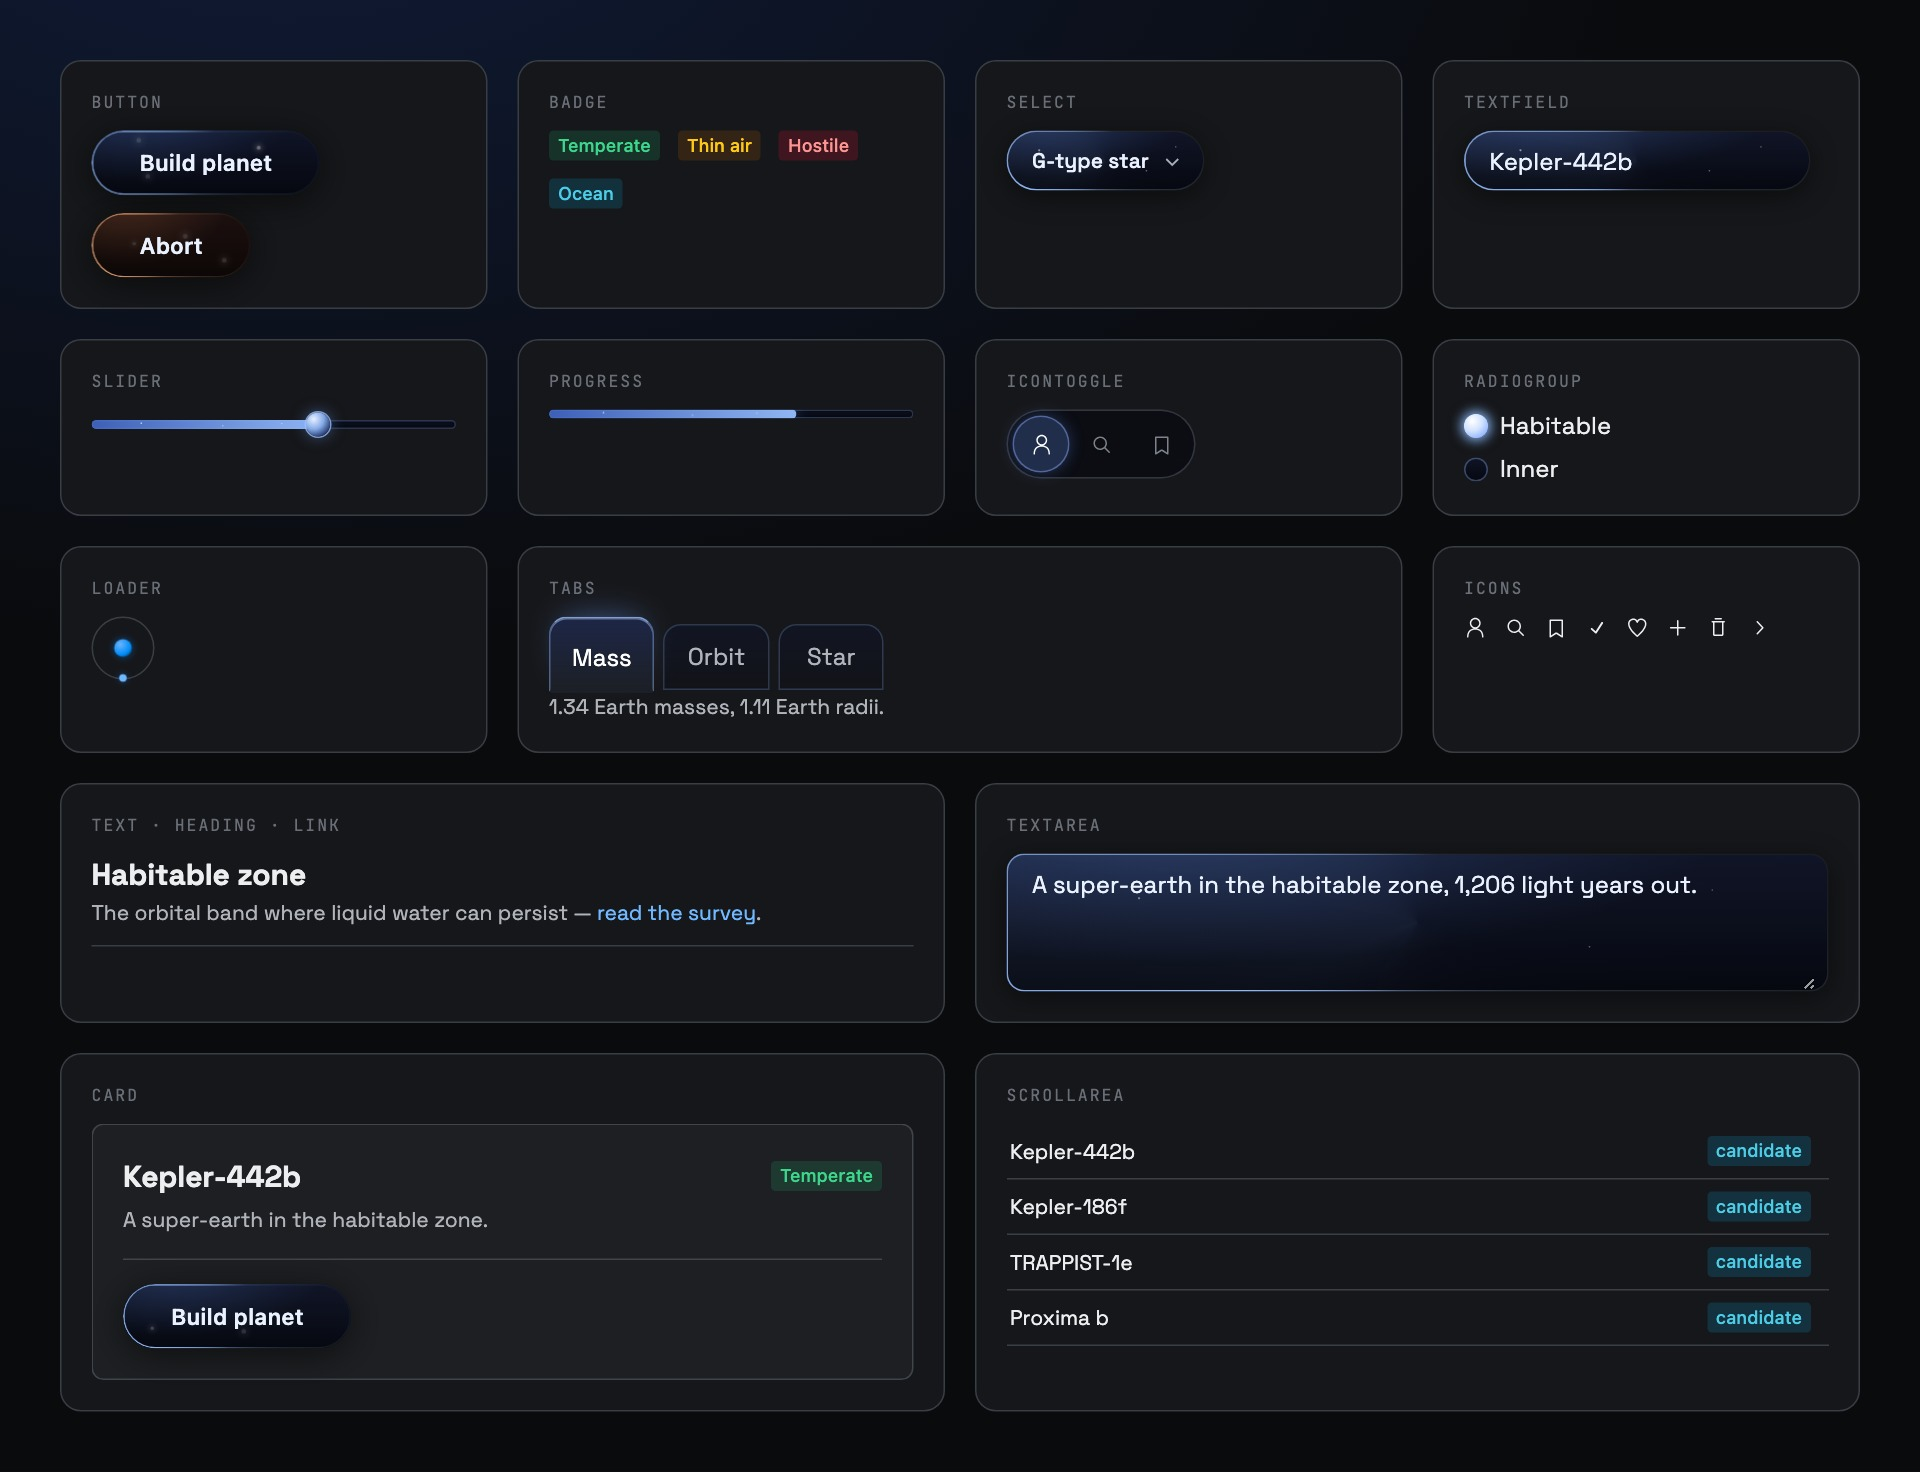
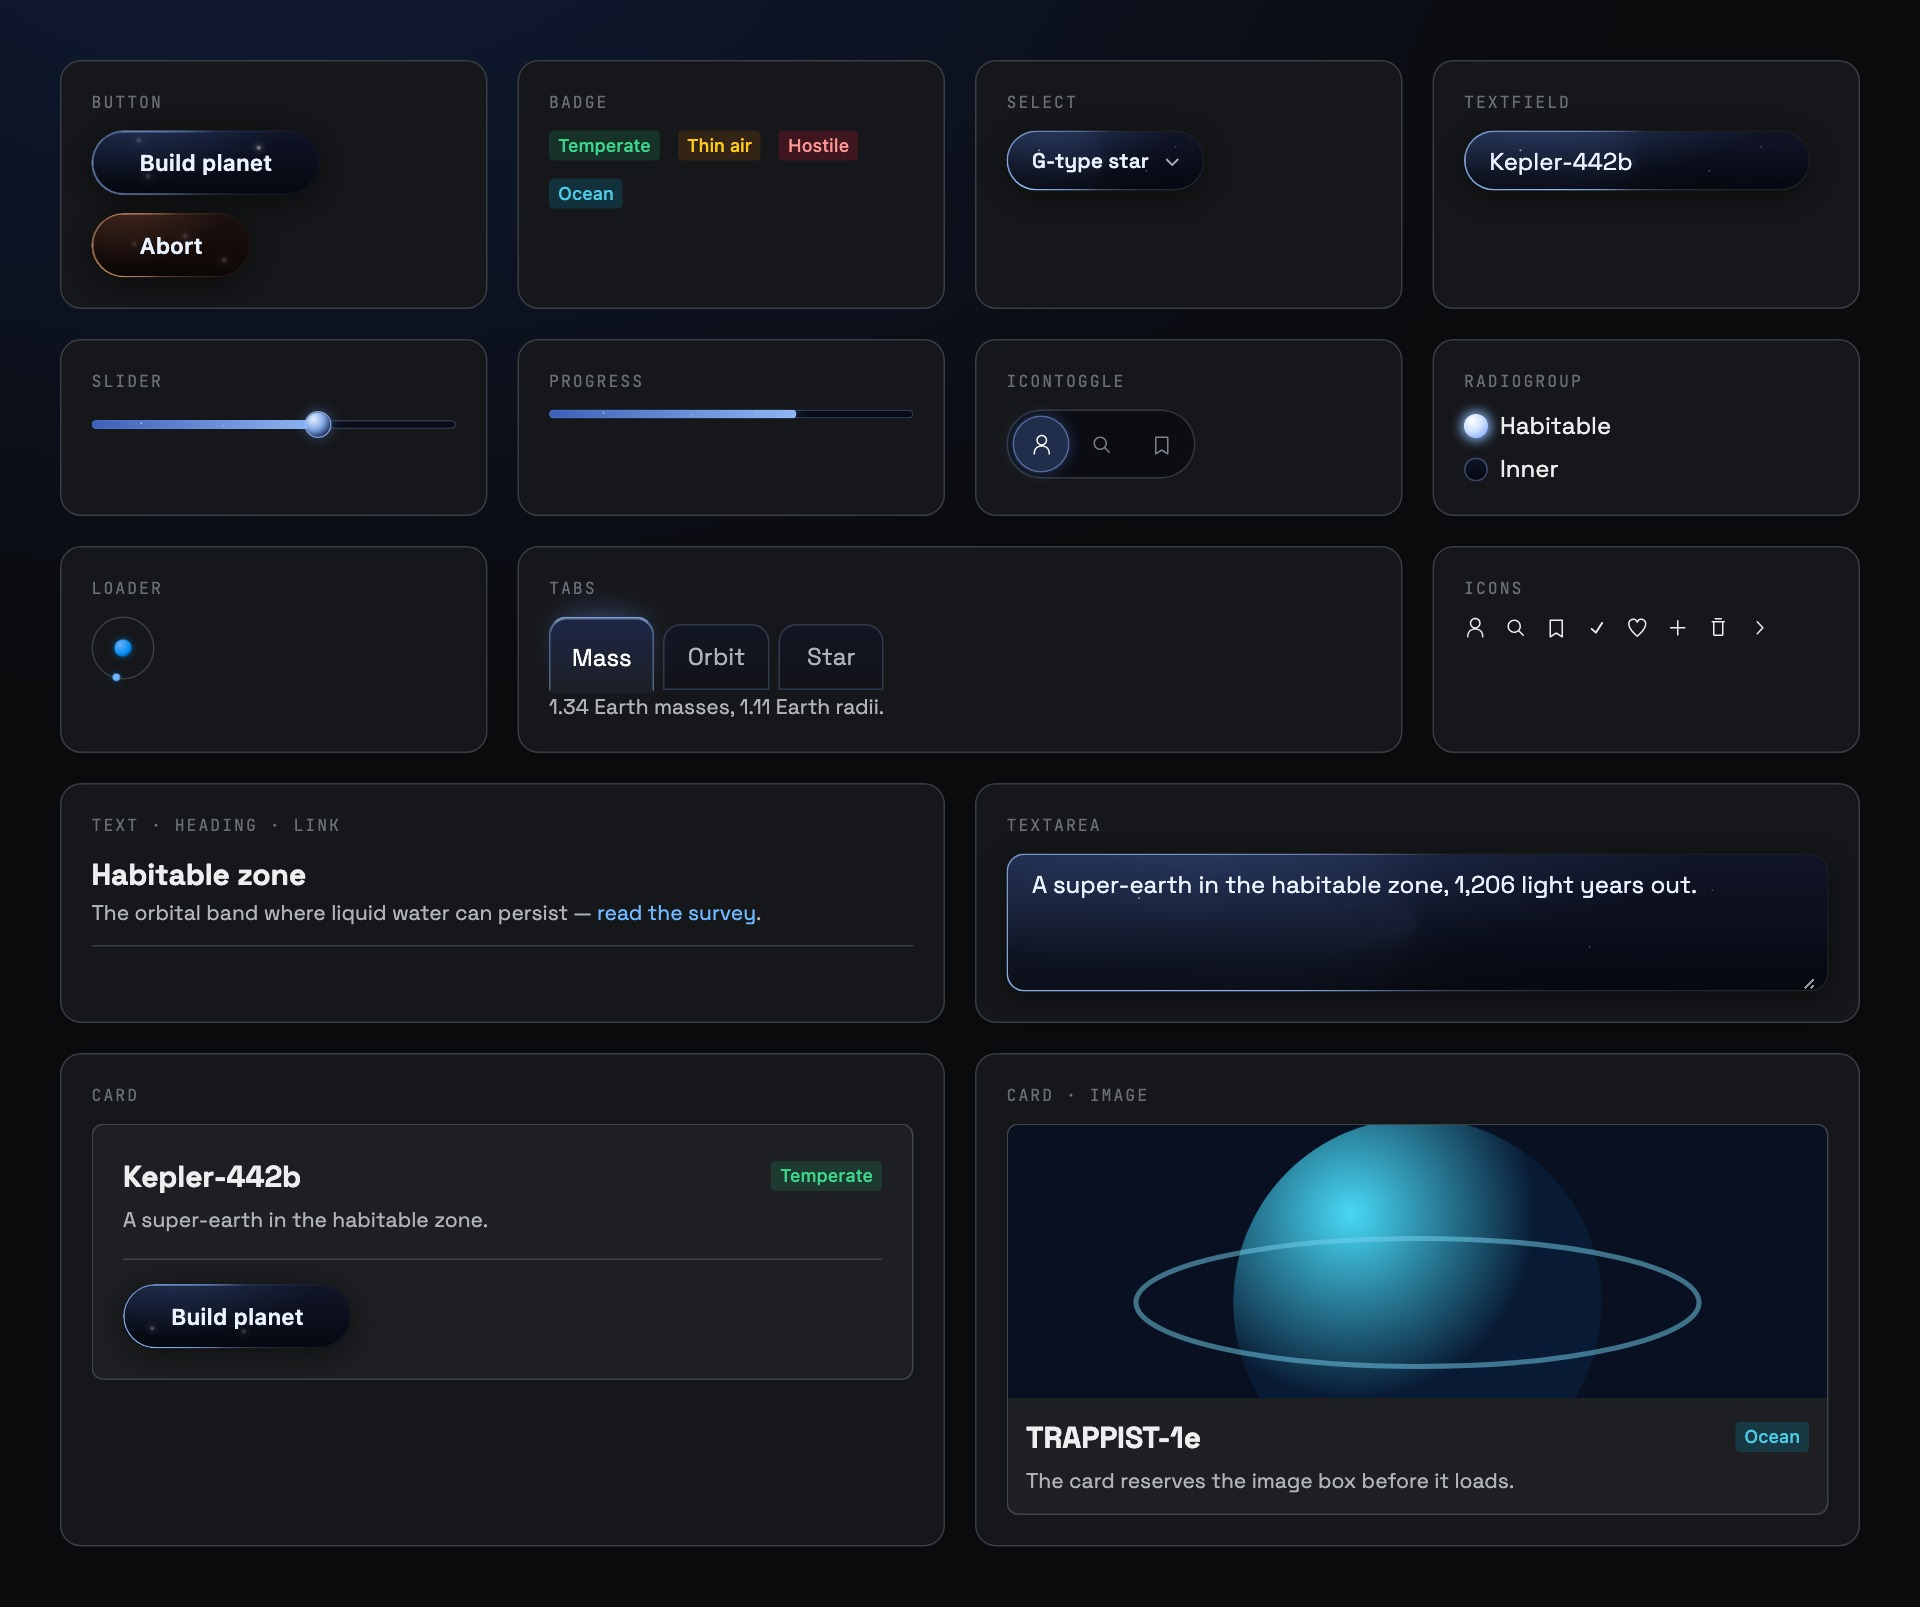
Remove ScrollArea
It was a div with overflow-y: auto and themed scrollbars — nine statements and
thirteen lines of CSS — and it did not solve the part that is actually hard.
Its own doc-comment conceded it: the component needed a bounded height from
somewhere else, so every call site still supplied the flex: 1; min-height: 0
that makes a region scroll at all. It took the easy half and left the trap to
the caller. It also hardcoded overflow-x: hidden with no way out, silently
clipping anything wider than the container.

The scrollbar theming does not come with it. That was a rule wearing a
component, and applying it globally to a consuming app's every scrollable
region would be a worse trade than leaving it out.

The stickersheet loses its ScrollArea cell, so the last row is now the plain
Card beside a media card — which the sheet should have been showing since the
image slot landed anyway.

diff --git a/apps/docs/src/stickersheet.stories.tsx b/apps/docs/src/stickersheet.stories.tsx
@@ -12,7 +12,6 @@ import {
   Loader,
   Progress,
   RadioGroup,
-  ScrollArea,
   Select,
   Separator,
   Slider,
@@ -160,22 +159,39 @@ export const Stickersheet = () => {
           </Card>
         </Cell>
 
-        <Cell label="ScrollArea" wide fill>
-          <ScrollArea style={{ maxHeight: 148 }}>
-            {["Kepler-442b", "Kepler-186f", "TRAPPIST-1e", "Proxima b", "Gliese 667 Cc", "TOI-700 d"].map(
-              (name) => (
-                <div key={name} className="docs-sheet__row">
-                  <Text size="2">{name}</Text>
-                  <Badge color="cyan">candidate</Badge>
-                </div>
-              ),
-            )}
-          </ScrollArea>
+        <Cell label="Card · image" wide>
+          <Card image={<SheetThumb />} className="docs-sheet__mediacard">
+            <div className="docs-demo__head">
+              <Heading size="5">TRAPPIST-1e</Heading>
+              <Badge color="cyan">Ocean</Badge>
+            </div>
+            <Text size="2" color="muted">
+              The card reserves the image box before it loads.
+            </Text>
+          </Card>
         </Cell>
+
       </div>
     </div>
   );
 };
+
+/** Stands in for a photograph. slice, not the default meet: an inline SVG
+ *  letterboxes where a raster image would crop. */
+const SheetThumb = () => (
+  <svg viewBox="0 0 320 200" preserveAspectRatio="xMidYMid slice" aria-hidden="true">
+    <defs>
+      <radialGradient id="sheetThumb" cx="32%" cy="26%">
+        <stop offset="0%" stopColor="hsl(190 90% 62%)" />
+        <stop offset="100%" stopColor="hsl(215 70% 12%)" />
+      </radialGradient>
+    </defs>
+    <rect width="320" height="200" fill="hsl(220 60% 8%)" />
+    <circle cx="160" cy="116" r="72" fill="url(#sheetThumb)" />
+    <ellipse cx="160" cy="116" rx="110" ry="25" fill="none"
+             stroke="hsl(195 80% 70% / 0.5)" strokeWidth="2" />
+  </svg>
+);
 
 /** One labelled swatch. The label is the export name, so the sheet doubles as
  *  an index: see a component, know what to import. */

diff --git a/apps/docs/src/layout.stories.tsx b/apps/docs/src/layout.stories.tsx
@@ -1,4 +1,4 @@
-import { Box, Flex, Grid, Card, ScrollArea, Text, Heading } from "@inkorange/space-ui";
+import { Box, Flex, Grid, Card, Text, Heading } from "@inkorange/space-ui";
 
 export default {
   title: "Components/Layout",
@@ -70,25 +70,3 @@ export const FlexAndGrid = () => (
     </Grid>
   </Flex>
 );
-
-export const ScrollAreaStory = () => (
-  <ScrollArea style={{ height: 160, width: 300 }}>
-    <div style={{ padding: 12 }}>
-      {Array.from({ length: 30 }, (_, i) => (
-        <Text key={i} as="p" size="2">Row {i + 1}</Text>
-      ))}
-    </div>
-  </ScrollArea>
-);
-ScrollAreaStory.storyName = "ScrollArea";
-ScrollAreaStory.meta = {
-  description:
-    "A scroll container with styled overflow, for regions that scroll independently of the page.",
-};
-
-FlexAndGrid.meta = {
-  // Box and Text appear only as things to lay out.
-  components: ["Flex", "Grid"],
-  description:
-    "The two layout primitives. Gap values map onto the spacing scale, so layouts inherit the eight-point grid rather than restating it.",
-};

diff --git a/packages/space-ui/src/components/primitives.test.tsx b/packages/space-ui/src/components/primitives.test.tsx
@@ -17,7 +17,6 @@ import { Grid } from "./Grid";
 import { Badge } from "./Badge";
 import { Separator } from "./Separator";
 import { Card } from "./Card";
-import { ScrollArea } from "./ScrollArea";
 import { Select } from "./Select";
 import { TextField } from "./TextField";
 import { TextArea } from "./TextArea";
@@ -169,15 +168,6 @@ describe("Card", () => {
     const out = html(<Card data-type="gas-giant" data-score="88">x</Card>);
     expect(out).toContain('data-type="gas-giant"');
     expect(out).toContain('data-score="88"');
-  });
-});
-
-describe("ScrollArea", () => {
-  it("renders a scrollable div merging className", () => {
-    const out = html(<ScrollArea className="mine">x</ScrollArea>);
-    expect(out).toMatch(/^<div/);
-    expect(out).toContain("scrollArea");
-    expect(out).toContain("mine");
   });
 });
 

diff --git a/packages/space-ui/src/index.ts b/packages/space-ui/src/index.ts
@@ -15,7 +15,6 @@ export { Grid, type GridProps } from "./components/Grid";
 export { Badge, type BadgeProps, type BadgeColor } from "./components/Badge";
 export { Separator, type SeparatorProps } from "./components/Separator";
 export { Card, type CardProps } from "./components/Card";
-export { ScrollArea, type ScrollAreaProps } from "./components/ScrollArea";
 export { Button, type ButtonProps } from "./components/Button";
 export { Loader, type LoaderProps } from "./components/Loader";
 export { IconToggle, type IconToggleOption } from "./components/IconToggle";

diff --git a/apps/docs/.ladle/space.css b/apps/docs/.ladle/space.css
@@ -2149,3 +2149,11 @@ nav.ladle-aside a:focus-visible {
 .docs-card--wide {
   --sp-card-image-ratio: 3 / 1;
 }
+
+/* The stickersheet's media card spans two columns, where the default 16/10
+   crop would be ~500px tall and swamp every other specimen. A banner ratio
+   keeps it proportionate — and demonstrates the token doing its job. */
+.docs-sheet__mediacard {
+  width: 100%;
+  --sp-card-image-ratio: 3 / 1;
+}

diff --git a/apps/docs/src/overview.stories.tsx b/apps/docs/src/overview.stories.tsx
@@ -209,7 +209,6 @@ const CATALOGUE: Array<[string, Array<[string, string]>]> = [
     ["Flex", "components--layout--flex-and-grid"],
     ["Grid", "components--layout--flex-and-grid"],
     ["Box", "components--layout--flex-and-grid"],
-    ["ScrollArea", "components--layout--scroll-area"],
   ]],
   ["Forms", [
     ["TextField", "components--forms--text-field"],

diff --git a/packages/space-ui/src/components/radixImports.test.ts b/packages/space-ui/src/components/radixImports.test.ts
@@ -9,7 +9,7 @@ import path from "node:path";
 
 const MIGRATED_BANNED = [
   "Text", "Heading", "Link", "Flex", "Box", "Grid",
-  "Badge", "Separator", "Card", "ScrollArea",
+  "Badge", "Separator", "Card",
   "Select", "TextField", "TextArea", "Slider", "RadioGroup", "Progress",
   "Dialog", "AlertDialog", "DropdownMenu", "Tabs",
 ];

diff --git a/README.md b/README.md
@@ -4,7 +4,7 @@
 
 [![npm](https://img.shields.io/npm/v/@inkorange/space-ui)](https://www.npmjs.com/package/@inkorange/space-ui)
 ![coverage](https://img.shields.io/badge/coverage-82%25-green)
-![minzip](https://img.shields.io/badge/minzip-21.9%20kB-blue)
+![minzip](https://img.shields.io/badge/minzip-21.7%20kB-blue)
 ![dependencies](https://img.shields.io/badge/dependencies-0-blue)
 [![docs](https://img.shields.io/badge/docs-live%20gallery-0b7dd6)](https://space-components.vercel.app)
 
@@ -18,7 +18,7 @@ compose and nothing to opt into.
      resolve against the registry rather than the repository. This sheet is a
      screenshot of the real components, shot from the gallery — see
      `pnpm assets`. -->
-<img alt="Stickersheet: Button, Badge, Select, TextField, Slider, Progress, IconToggle, RadioGroup, Loader, Tabs, icons, Text, TextArea, Card and ScrollArea on a dark ground"
+<img alt="Stickersheet: Button, Badge, Select, TextField, Slider, Progress, IconToggle, RadioGroup, Loader, Tabs, icons, Text, TextArea and Card — plain and with an image — on a dark ground"
      src="https://raw.githubusercontent.com/inkorange/space-ui/main/.github/assets/components.jpg"
      width="100%">
 
@@ -162,7 +162,7 @@ it exposes.
 | | |
 | --- | --- |
 | **Typography** | [Text](https://space-components.vercel.app/?story=components--typography--text-sizes) · [Link](https://space-components.vercel.app/?story=components--typography--text-sizes) · [Heading](https://space-components.vercel.app/?story=components--typography--headings) · [Badge](https://space-components.vercel.app/?story=components--typography--badges) · [Separator](https://space-components.vercel.app/?story=components--typography--separator) |
-| **Layout** | [Card](https://space-components.vercel.app/?story=components--layout--card) · [Flex](https://space-components.vercel.app/?story=components--layout--flex-and-grid) · [Grid](https://space-components.vercel.app/?story=components--layout--flex-and-grid) · [Box](https://space-components.vercel.app/?story=components--layout--flex-and-grid) · [ScrollArea](https://space-components.vercel.app/?story=components--layout--scroll-area) |
+| **Layout** | [Card](https://space-components.vercel.app/?story=components--layout--card) · [Flex](https://space-components.vercel.app/?story=components--layout--flex-and-grid) · [Grid](https://space-components.vercel.app/?story=components--layout--flex-and-grid) · [Box](https://space-components.vercel.app/?story=components--layout--flex-and-grid) |
 | **Forms** | [TextField](https://space-components.vercel.app/?story=components--forms--text-field) · [TextArea](https://space-components.vercel.app/?story=components--forms--text-area) · [Select](https://space-components.vercel.app/?story=components--forms--select) · [Slider](https://space-components.vercel.app/?story=components--forms--slider) · [RadioGroup](https://space-components.vercel.app/?story=components--forms--radio-group) |
 | **Buttons** | [Button](https://space-components.vercel.app/?story=components--buttons--buttons) · [IconToggle](https://space-components.vercel.app/?story=components--buttons--icon-toggle) |
 | **Feedback** | [Loader](https://space-components.vercel.app/?story=components--buttons--loader) · [Progress](https://space-components.vercel.app/?story=components--buttons--progress) |

diff --git a/.changeset/remove-scrollarea.md b/.changeset/remove-scrollarea.md
@@ -1,0 +1,23 @@
+---
+"@inkorange/space-ui": minor
+---
+
+Remove `ScrollArea`.
+
+It was a `<div>` with `overflow-y: auto` and themed scrollbars — nine
+statements and thirteen lines of CSS — and it did not solve the part that is
+actually hard. Its own doc-comment conceded as much: it needed a bounded
+height from somewhere else, so every call site still had to supply the
+`flex: 1; min-height: 0` that makes a region scroll at all. It took the easy
+half and left the trap to the caller.
+
+It also hardcoded `overflow-x: hidden` with no way to opt out, silently
+clipping anything wider than the container.
+
+Write a `<div>` and style it, or reach for a component that earns the name.
+The scrollbar theming is not carried over — it was a rule that happened to be
+wearing a component, and inflicting it globally on a consuming app's every
+scrollable region would be worse than leaving it out.
+
+Breaking, shipped as a minor: the package has one consumer and it is clearing
+its two call sites ahead of this landing.
